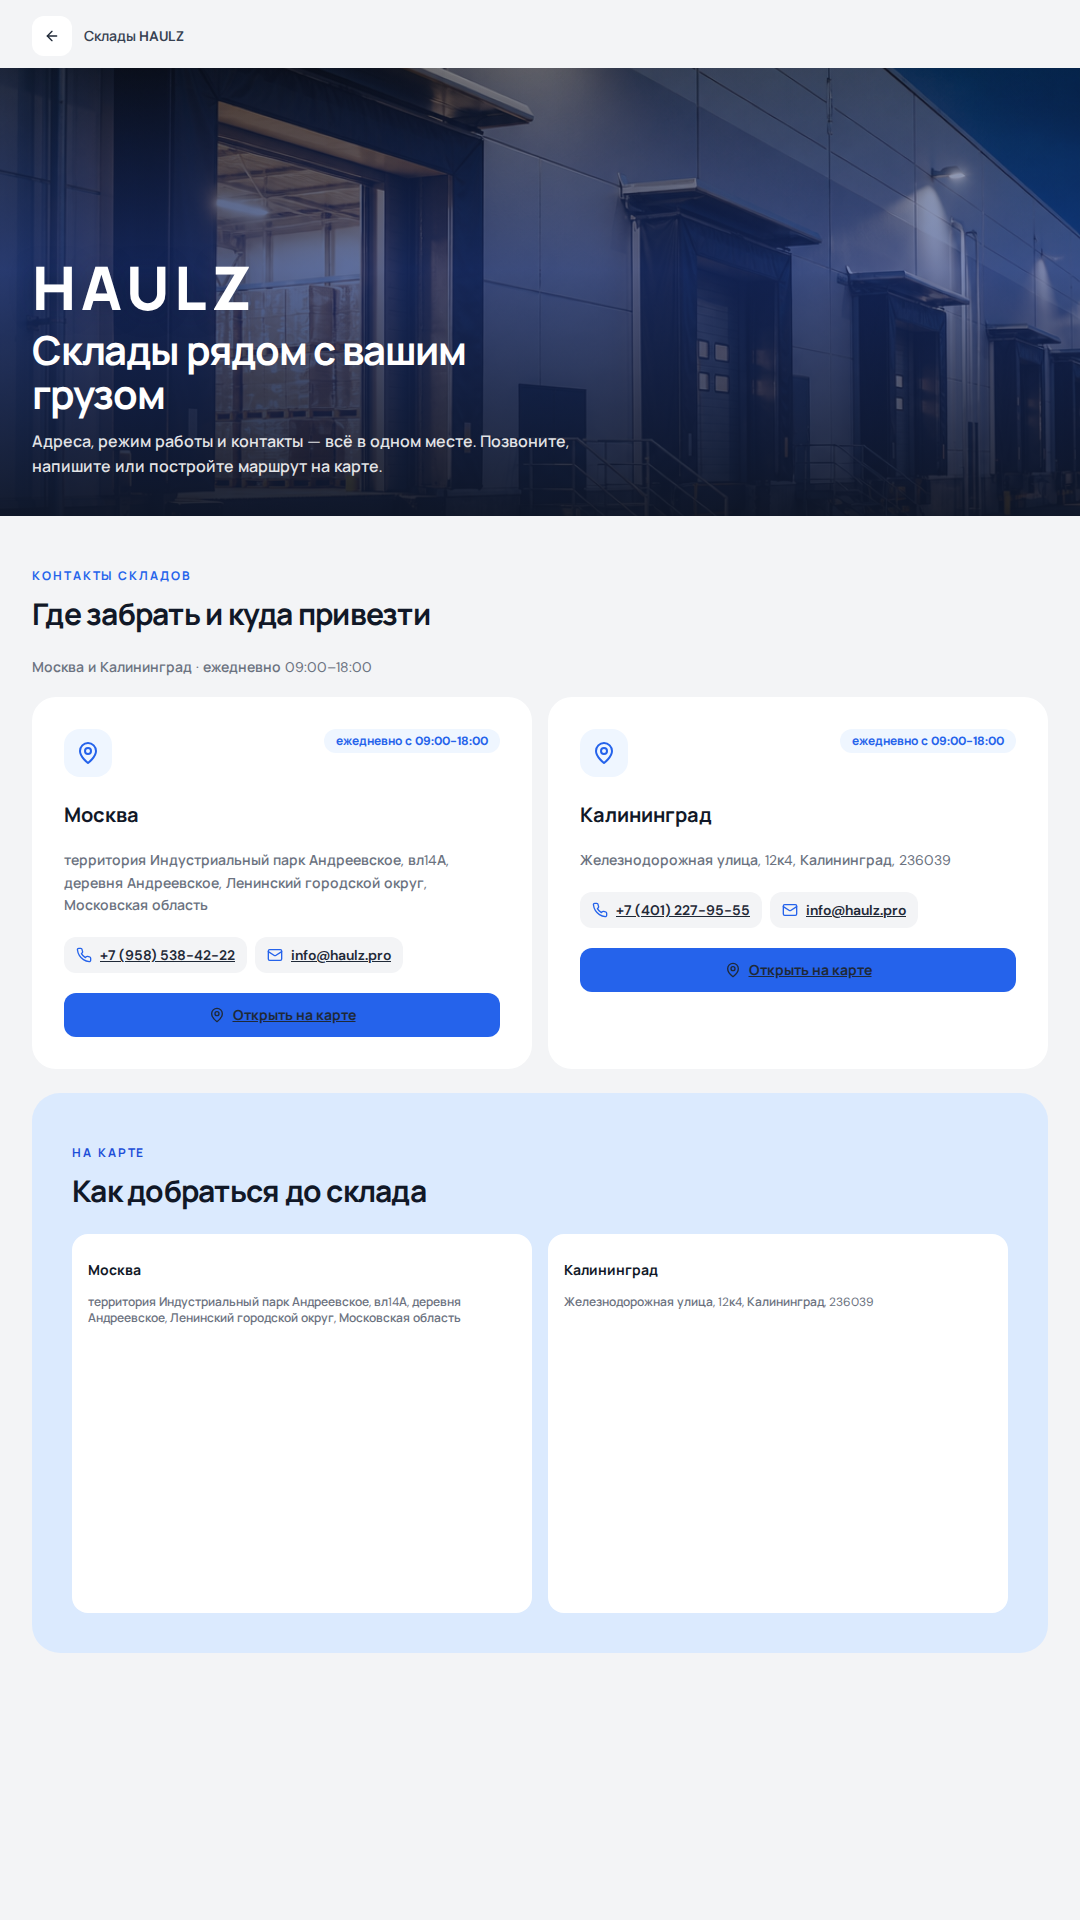
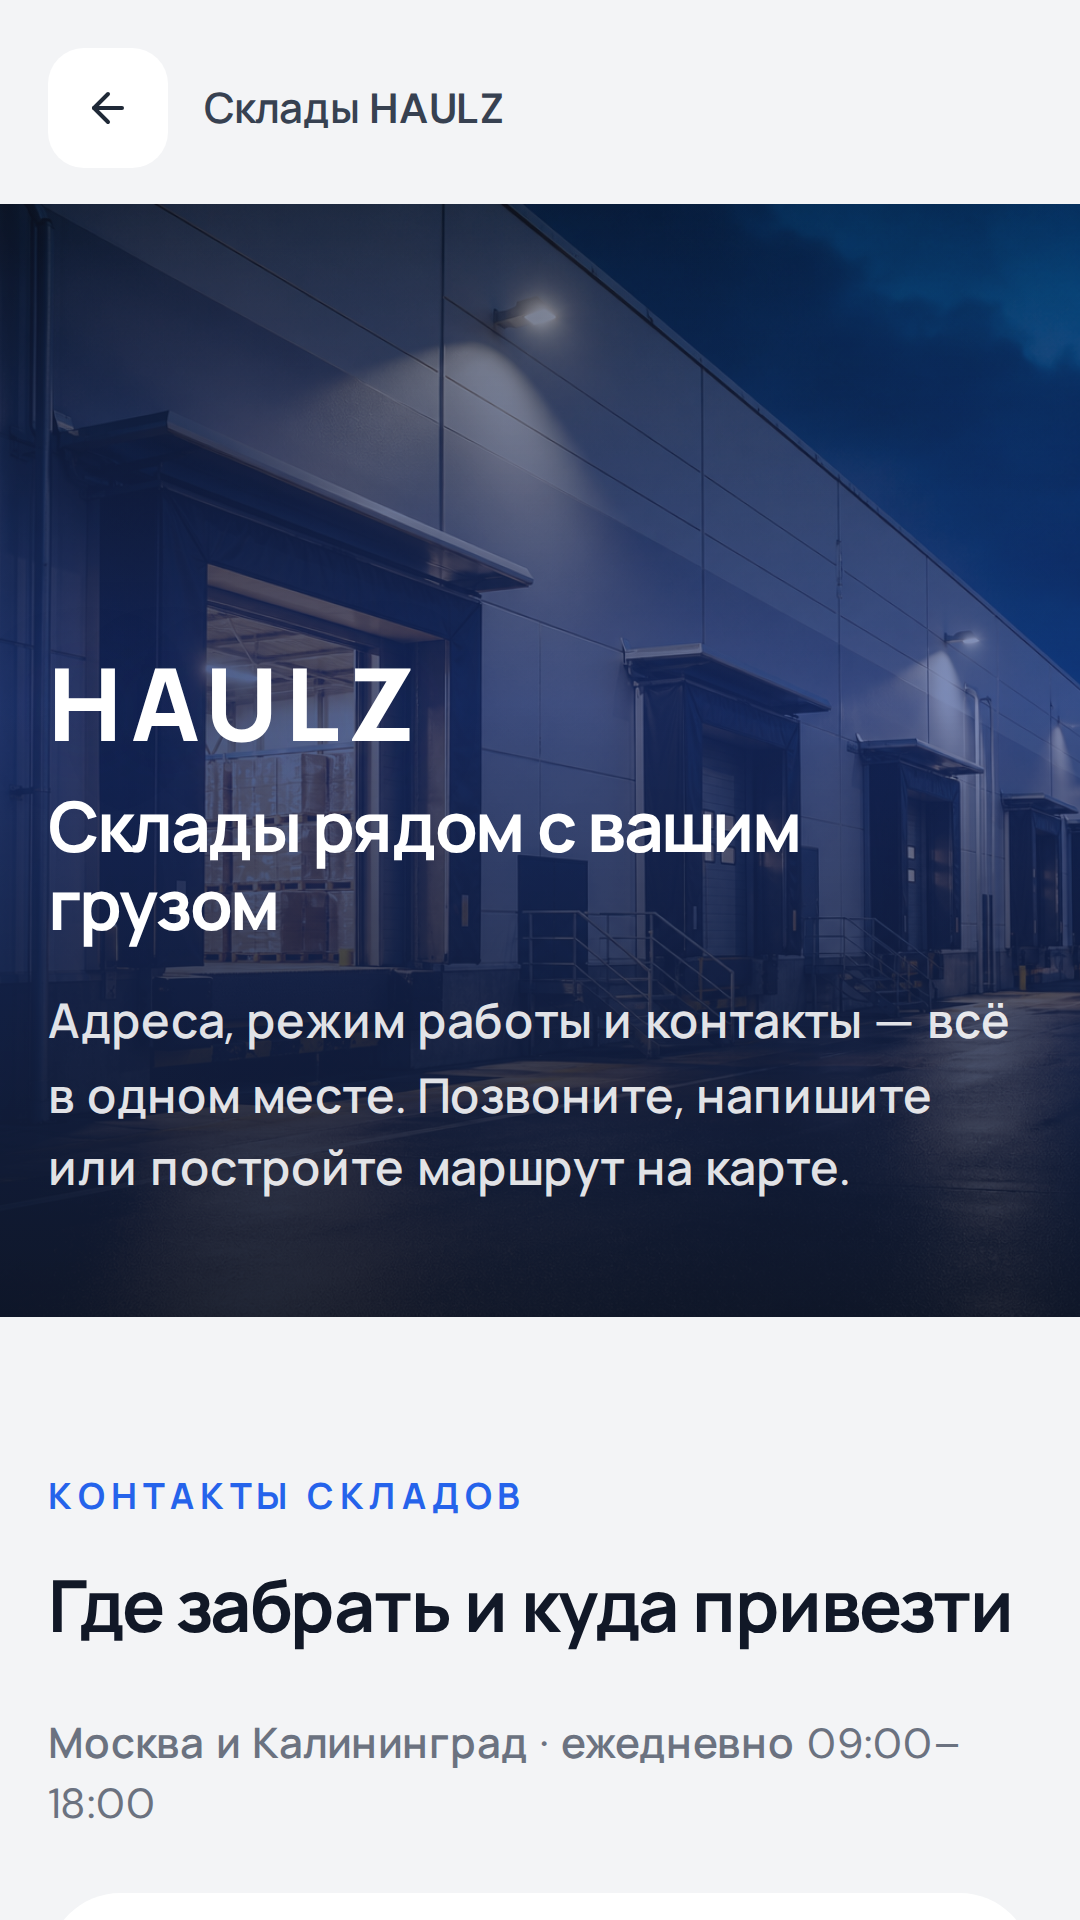
fix(rustore): capture store screenshots with mobile CSS viewport
Use 360×640 viewport (≤768px breakpoints) scaled to 1080×1920 instead of
1080px-wide viewport that rendered desktop guest layout.

diff --git a/store/rustore/README.md b/store/rustore/README.md
@@ -8,7 +8,7 @@ RuStore **обрезает** загруженные изображения до 
 
 - Минимум **3**, рекомендуется **6–8** скриншотов
 - **Вертикальные**, одна ориентация во всём наборе
-- **1080×1920 px** (9:16) — рекомендуемый размер
+390×844 CSS-viewport + scale → **1080×1920** PNG. Ширина ≤768px — мобильная вёрстка (TabBar, guest mobile).
 - Формат **PNG** или JPG, **≤ 3 МБ** на файл
 - На скрине **полностью** видны заголовок, кнопки, поля, нижнее меню (если есть)
 
